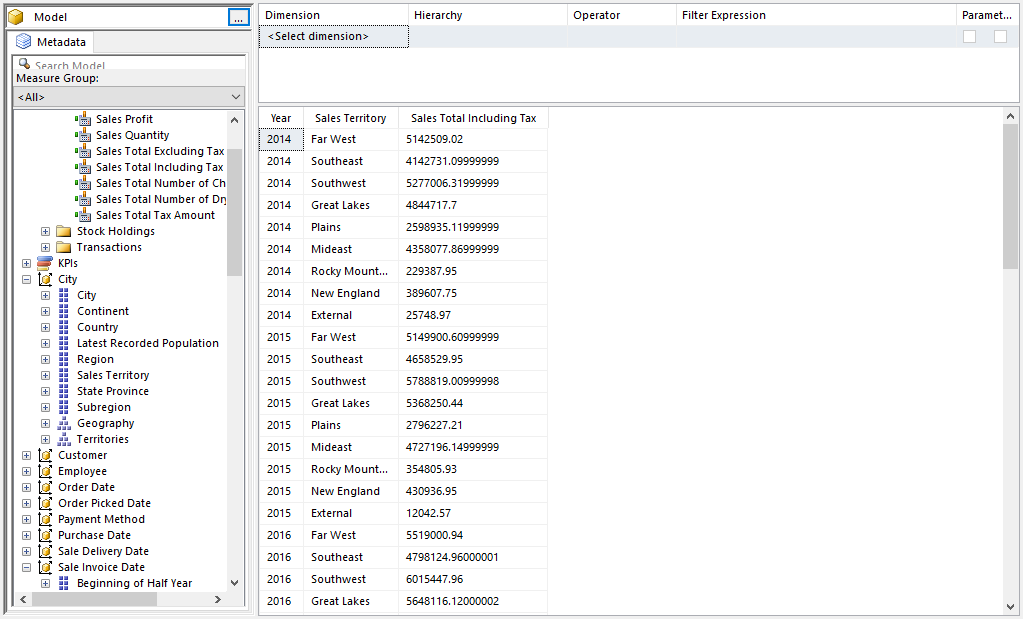
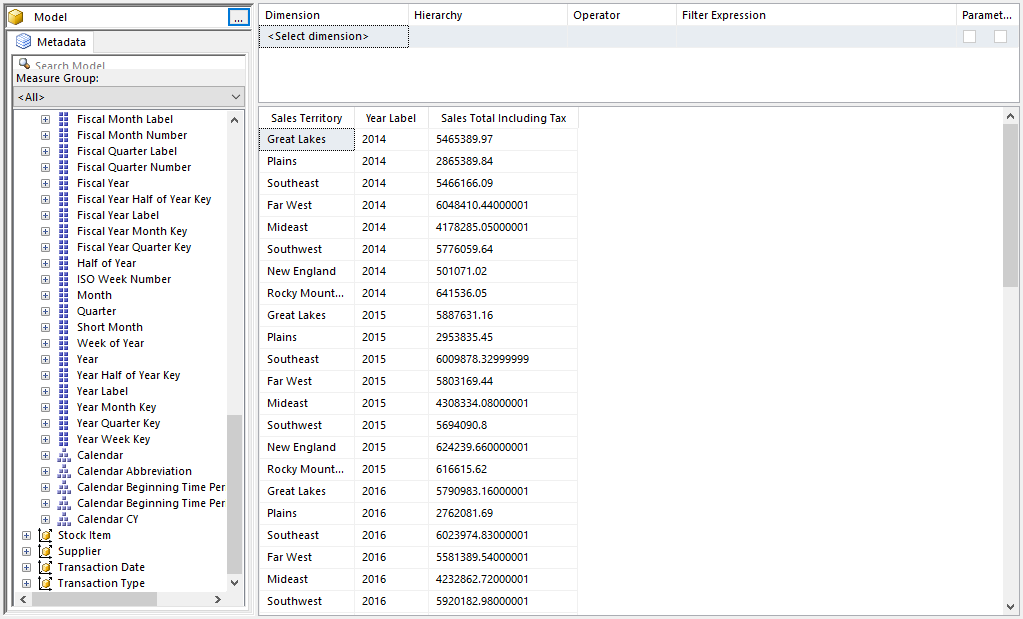
Dashboard building continues

Changed region(s): [[0.0, 0.1842, 0.5455, 0.9822], [0.9697, 0.4297, 1.0, 0.4604]]

diff --git a/Dashboards/Basic_Sales_Dashboard/03-Linking_Report_Components.md b/Dashboards/Basic_Sales_Dashboard/03-Linking_Report_Components.md
@@ -1,1 +1,75 @@
 # Linking Report components
+
+In this series of instrucitons, we'll see how to bind the controls on the report to the data that was imported in the previous file [02-Adding_Data.md](02-Adding_Data.md).
+
+If you don't have it open, open up the dashboard in the Mobile Report Publisher.
+
+## Category Chart
+
+Start on the data tab of the Mobile Report Publisher. Click on the **Category chart 1** control on the left under Report Elements.
+
+![Category Chart Data Properties Before](./../images/link-001.png)
+
+Underneath the data is a panel. The Category chart element should show on the left. To the right is where the properties for this control are set.
+
+For the Series name field, use the drop down to pick the Sales by Invoice year data set. Mobile Report Publisher will analyze the dataset, and automatically assign the only text field, the Year Label, to the series name.
+
+The series name will be the value charted across the bottom of the chart, the X axis.
+
+The tool then finds the numeric value in the dataset, Sales Total Including Tax, and uses that for the main series value. This is the value that is used on the Y axis of the chart.
+
+![Category Chart Data Properties After](./../images/link-002.png)
+
+If the dataset had more than just two fields, you could use the drop downs to select other fields to use in the dataset.
+
+## Bullet Graph
+
+Next, click on the Bullet graph report element. In the main value, use the drop down to select the Sales YTD dataset. In the field selector to the right, make sure Invoice Sales Total Including Tax YTD is selected.
+
+Now in the Comparison Value, also select the SalesYTD for the source dataset. In its field drop down, pick Invoice Sales Total Including Tax Previous YTD.
+
+A subtle but important point, we can draw the comparison values from two different datasets if we need to. In this case however both values are derived from the same dataset.
+
+## Simple Data Grid
+
+In Report Elements, we'll now work on the Simple data grid.
+
+In the _Data for the grid view_, select Sales by State and Invoice Year for the dataset. 
+
+Over to the right you will see the _Data grid columns_. This defines what we will see, and in what order in the grid.
+
+Click on the bars to the left of Year_Label, hold, and drag it to the top.
+
+To the right of the field names are the same names but in editable text boxes. These will be the text the user sees at the top of the data grid. Update the _Year_Label_ box to just read **Year**.
+
+Now update the next two boxes to remove any underscores, replacing them with spaces.
+
+Finally, click on the _Options_ button beside the Sales Total Including Tax box. Change the String format to _Currency_.
+
+## Gradient Heat Map
+
+We'll now turn our attention to the gradient heat map. Change the _Keys_ to the **Sales by State** dataset.
+
+When you do, it will analyze the dataset. It should find geographic data in the State_Province column and automatically put that into the drop down beside the keys selector.
+
+Report Publisher then saw Sales Total Including Tax as the only other field and placed that into the Values area.
+
+Naturally if your dataset had more fields you could change these selections as needed.
+
+## Tree Map
+
+In the Size Represents, select the Sales by Invoice Year and Territory dataset. The drop down beside it should auto populate with the only numeric field it has, Sales Total Including Tax.
+
+Next to it in Group by, select Year_Label.
+
+Now you may need to scroll to the right to find the _Popup labels_ area. In it, pick the **Sales_Territory**.
+
+Note the popup label is also used to break the box with the year down to smaller boxes, each one representing a state or territory.
+
+## Conclusion
+
+Save your work, then click the Preview button. Your dashboard should now be populated with data.
+
+![Dashbaord with data](./../images/link-003.png)
+
+Looking good so far, next we will work on cleaning up the report.

diff --git a/Dashboards/Basic_Sales_Dashboard/04-Cleaning_Up.md b/Dashboards/Basic_Sales_Dashboard/04-Cleaning_Up.md
@@ -1,0 +1,26 @@
+# Cleaning Up the Dashboard
+
+In this section we'll go through the various elements on the dashboard, as well as the dashboard itself, and add the finishing touches to make it look like a completed, professional report.
+
+First, you obviously need the report open in Mobile Report Publisher. Then make sure you are on the _Layout_ tab.
+
+If you've not done so, click in the top area and rename the report to **Sales Dashboard**.
+
+## Category Chart
+
+Click on the Category Chart report element. At the bottom you will see the properties for this element.
+
+Change the title to **Sales by Year**.
+
+One other optional change that may be useful to this report. By default the chart's Y axis starts at 0. Since we are dealing such large values, it may be useful to start the Y with a higher value. This will make it easier to see variations between years.
+
+To do so, click the _Adjust Y range to values_ slider. You should see the chart element update with a higher Y axis.
+
+## Bullet Graph
+
+Next, click the Bullet graph to edit its properties. Start with the Title, setting it to **Sales YTD**.
+
+Now move to the Subtitle right below it, and enter **vs Previous YTD**.
+
+Do the set ranges thing for demo...
+

diff --git a/Dashboards/Basic_Sales_Dashboard/ReadMe.md b/Dashboards/Basic_Sales_Dashboard/ReadMe.md
@@ -6,9 +6,11 @@ It will be broken down into smaller files that will focus on various aspects of 
 
 In part 1, you will see how to constructing the basic report, placing the controls onto the report designer itself.
 
-In the next step, you'll see how to add data to the report, then how to bind data to the controls in the report.
+In the next step, you'll see how to add the data we'll need to the report.
 
-With part 3 you'll go through the report cleanup process, applying good labels and formatting to the dashboard.
+In part 3, you'll learn how to bind our newly added data to the elements in the report.
+
+With part 4 you'll go through the report cleanup process, applying good labels and formatting to the dashboard.
 
 Finally, in parts 4 and 5 you'll see how to build the mobile versions of the report. Part 4 will be the tablet based dashboard, and part 5 will be for the phone.
 

diff --git a/DataSets/Sales_Dashboard_Report/05-Sales_by_Invoice_Year_and_Territory.md b/DataSets/Sales_Dashboard_Report/05-Sales_by_Invoice_Year_and_Territory.md
@@ -34,10 +34,9 @@ Drag the **Sales Total Including Tax** to the designer area.
 
 Next, expand the **City** dimension, and drag the **Sales Territory** to the designer to the left of the Sales Total Including Tax.
 
-Finally, expand the **Sales Invoice Date** branch. Drag the **Year** column and drop it between the two columns already in the designer.
+Finally, expand the **Sales Invoice Date** branch. Drag the **Year Label** column and drop it between the two columns already in the designer.
 
 Click the **Click to execute the query** link to ensure the query runs without issues.
-
 
 ![Sales by Year and Territory](../images/sales-by-invoice-year-and-territory-01.png)
 ## Save the query

diff --git a/DataSets/Sales_Dashboard_Report/01-Sales_by_Invoice_Year.md b/DataSets/Sales_Dashboard_Report/01-Sales_by_Invoice_Year.md
@@ -32,7 +32,7 @@ Expand the **Measures** branch, then expand **Sales**. Click on **Sales Total In
 
 Expand the **Sales Invoice Date** branch.
 
-Drag the **Year** column and drop it to the left of the Sales Total Including Tax.
+Drag the **Year Label** column and drop it to the left of the Sales Total Including Tax. Note, be sure to get the Year Label, and not the year. The Year is a numeric value, but the Category Chart will need a text value to categorize on, which is what Year Label provides.
 
 Click the **Click to execute the query** link to ensure the query runs without issues.
 

diff --git a/DataSets/Sales_Dashboard_Report/03-Sales_by_State_and_Invoice_Year.md b/DataSets/Sales_Dashboard_Report/03-Sales_by_State_and_Invoice_Year.md
@@ -34,7 +34,7 @@ Drag the **Sales Total Including Tax** to the designer area.
 
 Next, expand the **City** dimension, and drag the **State Provice** to the designer to the left of the Sales Total Including Tax.
 
-Finally, expand the **Sales Invoice Date** branch. Drag the **Year** column and drop it between the two columns already in the designer.
+Finally, expand the **Sales Invoice Date** branch. Drag the **Year Label** column and drop it between the two columns already in the designer.
 
 Click the **Click to execute the query** link to ensure the query runs without issues.
 
